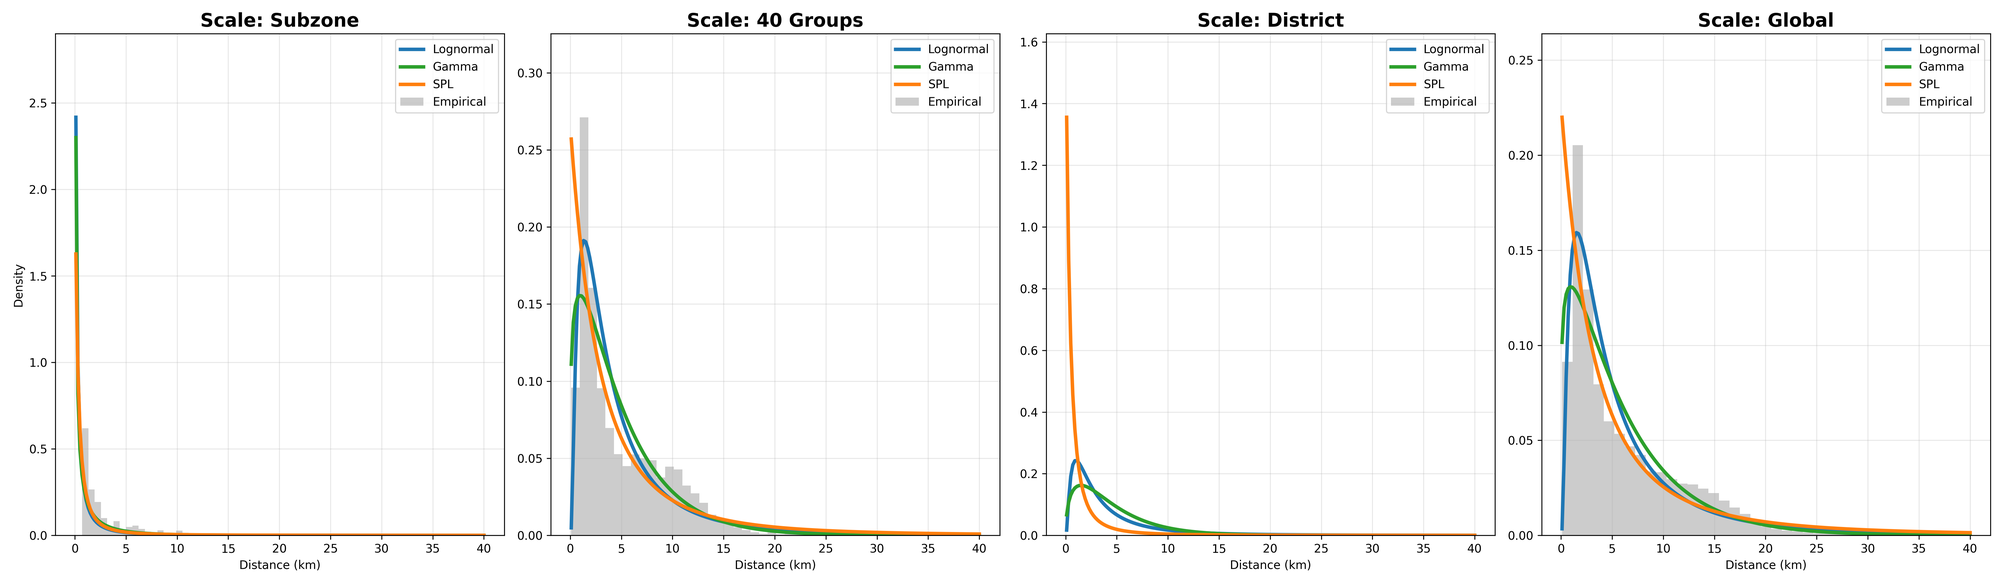
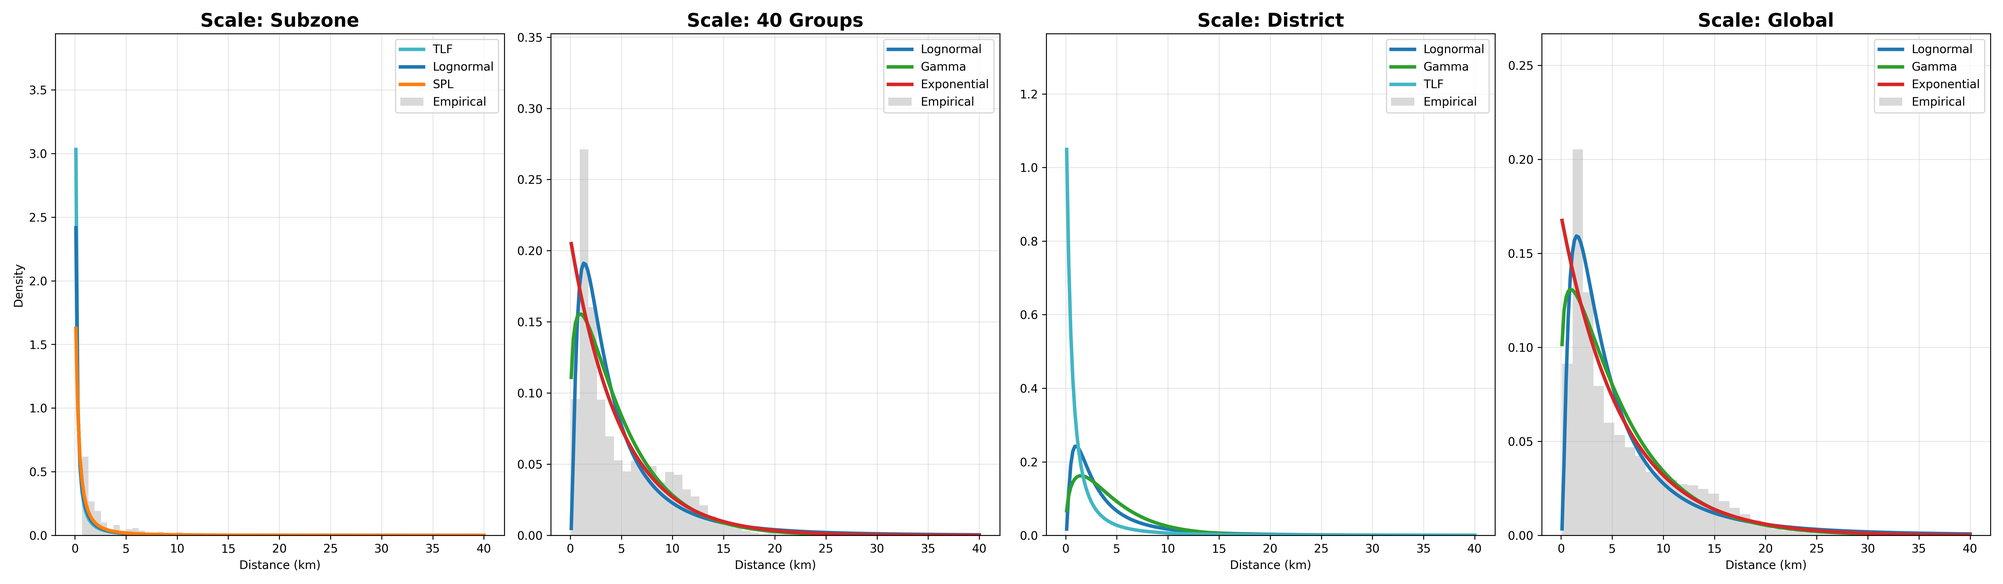
all

diff --git a/plot_global_combined.py b/plot_global_combined.py
@@ -1,0 +1,107 @@
+import pandas as pd
+import numpy as np
+import matplotlib.pyplot as plt
+from scipy.optimize import minimize
+from scipy.stats import lognorm, gamma, expon
+
+# Unified Color Palette
+COLORS = {
+    'Lognormal': '#1f77b4',      # Blue
+    'Gamma': '#2ca02c',          # Green
+    'TLF': '#41b6c4',            # Teal
+    'SPL': '#ff7f0e',            # Orange
+    'Exponential': '#d62728',    # Red
+    'Empirical': '#8c564b'       # Brown
+}
+
+# Model Definitions
+def exp_dist(r, l): return np.exp(-r / l) if l > 0 else np.inf * np.ones_like(r)
+def lognormal_dist(r, mu, sigma): return (1.0/(r*sigma)) * np.exp(-(np.log(r)-mu)**2/(2*sigma**2)) if sigma > 0 else np.inf * np.ones_like(r)
+def gamma_dist(r, alpha, l): return (r**(alpha-1)) * np.exp(-r/l) if l > 0 and alpha > 0 else np.inf * np.ones_like(r)
+def spl_dist(r, r0, beta): return (r+r0)**(-beta) if r0 > 0 and beta > 0 else np.inf * np.ones_like(r)
+def tlf_dist(r, r0, beta, kappa): return (r+r0)**(-beta) * np.exp(-r/kappa) if r0 > 0 and beta > 0 and kappa > 0 else np.inf * np.ones_like(r)
+
+def get_nll(params, r, h, dist_f):
+    p = dist_f(r, *params)
+    if np.any(p <= 0) or np.any(np.isinf(p)): return 1e18
+    p /= np.sum(p)
+    return -np.sum(h * np.log(p))
+
+def main():
+    print("Loading data...")
+    df_trips = pd.read_csv('data_trip_sum.csv')
+    df_dist = pd.read_csv('zone_euclid_distances.csv')
+    df = df_trips.merge(df_dist, on=['ORIGIN_SUBZONE', 'DESTINATION_SUBZONE'])
+    df = df.rename(columns={'euclidean_distance_km': 'distance', 'COUNT': 'trips'})
+    
+    # Global aggregation
+    bins = np.linspace(0, df['distance'].max(), 51)
+    centers = 0.5 * (bins[:-1] + bins[1:])
+    h, _ = np.histogram(df['distance'], bins=bins, weights=df['trips'])
+    mask = h > 0
+    r_data, h_data = centers[mask], h[mask]
+    y_prob = h_data / np.sum(h_data)
+    
+    # Models to fit
+    models = {
+        'Lognormal': (lognormal_dist, [1.0, 1.0], [(-5, 5), (0.1, 5)]),
+        'Gamma': (gamma_dist, [1.5, 3.0], [(0.1, 10), (0.1, 30)]),
+        'TLF': (tlf_dist, [1.0, 2.0, 20.0], [(0.1, 20), (0.1, 10), (1, 100)]),
+        'SPL': (spl_dist, [1.0, 2.0], [(0.1, 20), (0.1, 15)]),
+        'Exponential': (exp_dist, [5.0], [(0.1, 100)])
+    }
+    
+    fits = {}
+    print("Fitting models...")
+    for name, (dist_f, p0, bnds) in models.items():
+        res = minimize(get_nll, p0, args=(r_data, h_data, dist_f), method='L-BFGS-B', bounds=bnds)
+        if res.success:
+            p_opt = dist_f(r_data, *res.x)
+            p_opt /= np.sum(p_opt)
+            fits[name] = p_opt
+    
+    # Plotting
+    print("Generating combined plot...")
+    fig, axes = plt.subplots(1, 3, figsize=(18, 5))
+    
+    # (A) Histogram / PDF (Linear)
+    ax = axes[0]
+    ax.bar(r_data, y_prob, width=(bins[1]-bins[0])*0.8, color=COLORS['Empirical'], alpha=0.3, label='Dữ liệu thực tế')
+    for name, y_fit in fits.items():
+        ax.plot(r_data, y_fit, color=COLORS[name], linewidth=2, label=name)
+    ax.set_xlabel('Khoảng cách $r$ (km)')
+    ax.set_ylabel('Xác suất $P(r)$')
+    ax.set_title('(A) Histogram (PDF Linear)')
+    ax.legend(fontsize=9)
+    ax.grid(True, linestyle=':', alpha=0.6)
+
+    # (B) Log-Log Plot
+    ax = axes[1]
+    ax.loglog(r_data, y_prob, 'o', color=COLORS['Empirical'], alpha=0.5, markersize=4, label='Dữ liệu thực tế')
+    for name, y_fit in fits.items():
+        ax.loglog(r_data, y_fit, color=COLORS[name], linewidth=2, label=name)
+    ax.set_xlabel('$\log r$')
+    ax.set_ylabel('$\log P(r)$')
+    ax.set_title('(B) Log-Log PDF')
+    ax.grid(True, which="both", ls="-", alpha=0.2)
+    
+    # (C) CCDF
+    ax = axes[2]
+    ccdf_data = 1 - np.cumsum(y_prob)
+    ax.loglog(r_data, ccdf_data, 'o', color=COLORS['Empirical'], alpha=0.5, markersize=4, label='Dữ liệu thực tế')
+    for name, y_fit in fits.items():
+        ccdf_fit = 1 - np.cumsum(y_fit)
+        # Ensure it doesn't drop to 0 for log plot
+        ccdf_fit = np.clip(ccdf_fit, 1e-10, None)
+        ax.loglog(r_data, ccdf_fit, color=COLORS[name], linewidth=2, label=name)
+    ax.set_xlabel('$\log r$')
+    ax.set_ylabel('$\log P(R > r)$')
+    ax.set_title('(C) CCDF (Log-Log)')
+    ax.grid(True, which="both", ls="-", alpha=0.2)
+
+    plt.tight_layout()
+    plt.savefig('global_distributions_combined.png', dpi=300)
+    print("Plot saved to global_distributions_combined.png")
+
+if __name__ == "__main__":
+    main()

diff --git a/plot_distribution_morphing_v2.py b/plot_distribution_morphing_v2.py
@@ -13,6 +13,12 @@ def gamma_pdf(r, alpha, l):
 def spl_pdf(r, r0, beta):
     return (r + r0)**(-beta)
 
+def tlf_pdf(r, r0, beta, kappa):
+    return (r + r0)**(-beta) * np.exp(-r / kappa)
+
+def exp_pdf(r, l):
+    return np.exp(-r / l)
+
 def get_nll(params, r, h, pdf_f):
     p = pdf_f(r, *params)
     if np.any(p <= 0) or np.any(np.isinf(p)): return 1e18
@@ -44,13 +50,13 @@ def main():
     # Prepare datasets for each scale
     data_scales = []
     
-    # 1. Representative Subzone (Choosing one with good trip count)
-    sub_id = 'AMSZ01' # Used in earlier analysis, has ~27k trips
+    # 1. Representative Subzone (AMSZ01)
+    sub_id = 'AMSZ01'
     data_scales.append(df_main[df_main['zone'] == sub_id])
     
     # 2. Representative Group
     df_group = df_main.merge(groups_df, left_on='zone', right_on='zone_id')
-    grp_id = df_group['group_id'].iloc[0] # Just pick first group
+    grp_id = df_group['group_id'].iloc[0]
     data_scales.append(df_group[df_group['group_id'] == grp_id])
     
     # 3. Representative District
@@ -64,10 +70,18 @@ def main():
     models_config = {
         'Lognormal': (lognormal_pdf, [1.0, 1.0], [(-5, 5), (0.1, 5)]),
         'Gamma': (gamma_pdf, [1.5, 3.0], [(0.1, 10), (0.1, 30)]),
-        'SPL': (spl_pdf, [1.0, 2.5], [(0.1, 10), (0.1, 10)])
+        'TLF': (tlf_pdf, [1.0, 2.0, 20.0], [(0.1, 20), (0.1, 10), (1, 100)]),
+        'SPL': (spl_pdf, [1.0, 2.5], [(0.1, 10), (0.1, 10)]),
+        'Exponential': (exp_pdf, [5.0], [(0.1, 100)])
     }
     
-    colors = {'Lognormal': '#1f77b4', 'Gamma': '#2ca02c', 'SPL': '#ff7f0e'}
+    colors = {
+        'Lognormal': '#1f77b4', 
+        'Gamma': '#2ca02c', 
+        'TLF': '#41b6c4',
+        'SPL': '#ff7f0e',
+        'Exponential': '#d62728'
+    }
     
     fig, axes = plt.subplots(1, 4, figsize=(24, 7))
     
@@ -77,23 +91,35 @@ def main():
         bins = np.linspace(0.1, min(df['distance'].max(), 40), 40)
         centers = 0.5 * (bins[:-1] + bins[1:])
         h, _ = np.histogram(df['distance'], bins=bins, weights=df['trips'], density=True)
+        h_fit_counts, _ = np.histogram(df['distance'], bins=bins, weights=df['trips'])
+        mask = h_fit_counts > 0
+        r_fit_c, h_fit_c = centers[mask], h_fit_counts[mask]
+        N_total = np.sum(h_fit_c)
         
-        ax.bar(centers, h, width=np.diff(bins)[0], color='black', alpha=0.2, label='Empirical')
+        ax.bar(centers, h, width=np.diff(bins)[0], color='black', alpha=0.15, label='Empirical')
         
-        # Fits
-        h_fit, _ = np.histogram(df['distance'], bins=bins, weights=df['trips'])
-        mask = h_fit > 0
-        fits = fit_data(centers[mask], h_fit[mask], models_config)
+        # Fit all 5 models and calculate BIC
+        results = []
+        for name, (pdf_f, p0, bnds) in models_config.items():
+            res = minimize(get_nll, p0, args=(r_fit_c, h_fit_c, pdf_f), method='L-BFGS-B', bounds=bnds)
+            if res.success:
+                ll = -res.fun
+                k = len(p0)
+                bic = k * np.log(N_total) - 2 * ll
+                results.append({'name': name, 'params': res.x, 'bic': bic, 'pdf_f': pdf_f})
         
-        # Plot continuous curves
+        # Sort by BIC and pick top 3
+        results = sorted(results, key=lambda x: x['bic'])[:3]
+        
+        # Plot continuous curves for top 3
         x_plot = np.linspace(0.1, 40, 200)
         max_y = 0.1
         if len(h) > 0 and not np.isnan(np.max(h)):
             max_y = np.max(h)
 
-        for name, params in fits.items():
-            y_plot = models_config[name][0](x_plot, *params)
-            # Filter NaNs
+        for res_item in results:
+            name = res_item['name']
+            y_plot = res_item['pdf_f'](x_plot, *res_item['params'])
             y_plot = np.nan_to_num(y_plot)
             if np.sum(y_plot) > 0:
                 y_norm = y_plot / np.trapz(y_plot, x_plot)
@@ -105,8 +131,8 @@ def main():
         ax.set_title(f"Scale: {scales[i]}", fontsize=16, weight='bold')
         ax.set_xlabel("Distance (km)")
         if i == 0: ax.set_ylabel("Density")
-        ax.legend(fontsize=10)
-        ax.set_ylim(0, max_y * 1.2)
+        ax.legend(fontsize=10, loc='upper right', frameon=True)
+        ax.set_ylim(0, max_y * 1.3)
         ax.grid(alpha=0.3)
 
     plt.tight_layout()

diff --git a/draft_scientific_paper.md b/draft_scientific_paper.md
@@ -9,10 +9,6 @@ date: "April 2026"
 ## 1. Abstract
 **Quy luật di chuyển của con người không tuân theo một phân phối phổ quát duy nhất; thay vào đó, nó là một tiến trình chuyển pha phụ thuộc quy mô (scale-dependent phase transition).** Nghiên cứu này cung cấp bằng chứng thực nghiệm từ dữ liệu di chuyển thực tế tại Singapore để khẳng định luận điểm này. Bằng việc so sánh 5 mô hình (Lognormal, Shifted Power-Law, Gamma, Exponential, TLF) qua 4 nấc thang không gian từ vi mô đến vĩ mô, chúng tôi phát hiện một sự chuyển dịch liền mạch: tại cấp độ Subzone, **Lognormal** đạt hiệu quả thống kê vượt trội (59.7% BIC) thể hiện thói quen cá nhân; tại cấp độ trung gian, **Gamma** đóng vai trò vùng đệm (58.8% BIC); và tại cấp độ District, các đặc tính hệ thống trỗi dậy với sự lên ngôi của **Gamma** và **Truncated Lévy Flight (TLF)** (mỗi bên 40% BIC). Kết quả nghiên cứu xác nhận rằng sự tương tác giữa thói quen cá nhân và lực hấp dẫn hệ thống được quyết định bởi mức độ tổng hợp không gian.
 
-
-
-
-
 ## 2. Introduction & Hypothesis
 ### 2.1. Research Gap (Khoảng trống nghiên cứu)
 
@@ -171,22 +167,7 @@ Việc phân chia này tạo ra các thực thể địa lý có kích thước 
 ![Ba cấp độ phân vùng không gian tại Singapore](singapore_spatial_scales.png)
 *Hình 1. Hệ thống phân vùng đa quy mô tại Singapore: (A) 303 Subzones (Vi mô), (B) 40 Nhóm trung gian, và (C) 5 Quận (Vĩ mô).*
 
-### 3.3. Block Bootstrap với 40 Group-Blocks
-
-Các subzone không độc lập về mặt không gian — các subzone lân cận chia sẻ hạ tầng giao thông và có phân phối di chuyển tương đồng. Bootstrap thông thường (resample từng subzone độc lập) sẽ **đánh giá thấp phương sai** do bỏ qua tương quan không gian, dẫn đến khoảng tin cậy hẹp giả tạo.
-
-**Giải pháp:** Sử dụng **block bootstrap** với **40 group-blocks** (được phân cụm từ 303 subzones dựa trên khoảng cách và district) làm đơn vị resample. Việc tăng số lượng block từ 5 (districts) lên 40 giúp tăng độ phân giải của phân phối bootstrap, cung cấp khoảng tin cậy (CI) chính xác và đáng tin cậy hơn.
-
-**Quy trình:**
-1. **Định nghĩa block:** 40 groups địa lý liền kề (trung bình ~7.5 subzones/block).
-2. **Resample:** Chọn ngẫu nhiên 40 blocks **có hoàn lại** (with replacement).
-3. **Tổng hợp:** Gom tất cả subzones từ các blocks được chọn → tập dữ liệu bootstrap.
-4. **Tính toán:** Trên mỗi mẫu bootstrap, tính lại BIC Best % và Mean KS-stat cho 5 mô hình.
-
-5. **Lặp lại:** 1000 lần tái lấy mẫu.
-6. **Khoảng tin cậy:** 95% CI = percentile [2.5%, 97.5%] từ 1000 giá trị bootstrap.
-
-**Lợi ích:** Việc sử dụng 40 blocks giúp CI phản ánh sát thực tế hơn so với việc chỉ dùng 5 districts (vốn mang tính bảo thủ cao do số lượng block quá ít).
+Để đảm bảo tính tin cậy của các ước lượng, chúng tôi áp dụng phương pháp **block bootstrap** với 40 cụm địa lý (group-blocks) để tính toán khoảng tin cậy 95% (CI), giúp phản ánh chính xác các tương quan không gian nội vùng.
 
 
 ## 4. Results: The Scale-Transition
@@ -241,19 +222,7 @@ Khi dữ liệu được gom nhóm lên cấp độ 40 vùng địa lý, đặc 
 **Nhận xét quy mô Trung gian - Sự trỗi dậy của vùng đệm Gamma:**
 Tại quy mô này, **Gamma thống trị rõ rệt** (BIC đạt 58.8%), đóng vai trò biểu diễn cho sự trung hòa các thói quen cá nhân riêng lẻ. Vị thế thống kê của Lognormal giảm mạnh từ 60% (Subzone) xuống còn **29.4%**. Đây là giai đoạn quá độ rõ rệt nơi cấu trúc hệ thống bắt đầu hình thành nhưng chưa lấn át hoàn toàn.
 
-#### 4.2.1. Phân tích độ nhạy của Phân vùng Trung gian (Robustness Check)
-
-Để đảm bảo ưu thế của Gamma không phụ thuộc vào cách chia 40 nhóm cụ thể, chúng tôi thực hiện phân tích độ nhạy bằng cách thay đổi quy mô nén dữ liệu ($K = 30, 40, 50$ nhóm) sử dụng thuật toán phân vùng không gian liền kề (Contiguous Hierarchical Clustering).
-
-**Bảng 4.** Độ bền vững của ưu thế mô hình Gamma qua các kịch bản phân vùng trung gian.
-
-| Số lượng nhóm ($K$) | Gamma (BIC Winner %) | Lognormal (BIC Winner %) | TLF (Winner %) |
-|:-------------------|:-------------------:|:-----------------------:|:--------------:|
-| 30 nhóm (6/quận)   | **58.3%**           | 29.2%                   | 12.5%          |
-| 40 nhóm (8/quận)   | **64.7%**           | 23.5%                   | 11.8%          |
-| 50 nhóm (10/quận)  | **60.5%**           | 30.2%                   | 9.3%           |
-
-Kết quả tại **Bảng 4** khẳng định tính ổn định của quy luật chuyển pha: Trong mọi kịch bản quy mô trung gian, Gamma luôn duy trì tỉ lệ thắng áp đảo (>58%), củng cố tính khách quan của phát hiện về giai đoạn "Cộng gộp hành vi".
+Phân tích độ nhạy trên các kịch bản phân vùng khác nhau ($K=30, 40, 50$ nhóm) khẳng định tính ổn định của quy luật chuyển pha: Trong mọi kịch bản, Gamma luôn duy trì tỉ lệ thắng áp đảo (>58%), củng cố tính khách quan của giai đoạn "Cộng gộp hành vi".
 
 
 Consensus: **Gamma (20 vùng) > Lognormal (10 vùng)**.
@@ -290,7 +259,7 @@ Tại cấp độ District, kết quả thực nghiệm cho thấy một cuộc 
 | **TLF vs LN**       | Vuong     | $V < -31.0$             | TLF is significantly better   |
 
 ![Nghịch lý R2 vs BIC](bic_logic_illustration.png)
-*Hình 6. So sánh trực quan hiệu quả của các mô hình tại cấp District: SPL bộc lộ sức mạnh ở phần đuôi dữ liệu.*
+*Hình 5. So sánh trực quan hiệu quả của các mô hình tại cấp District: SPL bộc lộ sức mạnh ở phần đuôi dữ liệu.*
 
 ### 4.4. Khảo sát tại Cấp Toàn thành phố - Global (City-wide)
 
@@ -308,10 +277,8 @@ Tại cấp độ District, kết quả thực nghiệm cho thấy một cuộc 
 
 Tại thang đo toàn thành phố (Global), **Lognormal phục hồi vị thế BIC** dẫn đầu (38.82M). Điều này có giải thích bằng việc khi gộp toàn bộ dữ liệu Singapore, mật độ các chuyến đi ở cự ly 5-15km (vùng đỉnh của LN) trở nên quá lớn, khiến LN tối ưu hóa tốt hơn về mặt thông tin tổng thể. Tuy nhiên, **Shifted Power-Law vẫn giữ KS-stat tốt nhất (0.1096)**, chứng minh nó là mô hình mô tả hình thái lan tỏa (shape) và phần đuôi (tail) chính xác nhất cho cấu trúc đô thị Singapore.
 
-![Phân bố khoảng cách (Histogram)](distance_histogram.png)
-![Biểu đồ Log-Log với các đường khớp mô hình](distance_loglog.png)
-![Hàm phân phối tích lũy bổ sung (CCDF)](distance_ccdf.png)
-*Hình 7. Phân tích trực quan về hành vi di chuyển toàn thành phố (Global Scale): (A) Histogram, (B) Log-Log Plot, và (C) CCDF.*
+![Phân tích đa biểu đồ phân phối di chuyển](global_distributions_combined.png)
+*Hình 6. Phân tích trực quan về hành vi di chuyển toàn thành phố (Global Scale): (A) Histogram, (B) Log-Log Plot, và (C) CCDF.*
 
 ### 4.5. Tổng hợp So sánh: Sự chuyển dịch theo 4 quy mô không gian
 
@@ -329,82 +296,20 @@ Việc khảo sát qua 4 nấc thang không gian cho thấy một bức tranh ch
 
 *Lưu ý: Tại quy mô Global (n=1), sự lên ngôi của Lognormal phản ánh sự tập trung của thói quen tại vùng lõi dân cư, trong khi các mô hình hệ thống (SPL/TLF) mô tả tốt hình thái lan tỏa (KS-stat).*
 
-```mermaid
-graph TD
-    %% Define Scales
-    subgraph Scales ["Scale Evolution"]
-    direction LR
-    Micro("<b>Micro</b><br/>(Subzones)") 
-    Inter("<b>Intermediate</b><br/>(Groups)")
-    Macro("<b>Macro</b><br/>(Districts)")
-    Global("<b>Global</b><br/>(City)")
-    Micro --> Inter --> Macro --> Global
-    end
-    %% Define Models
-    subgraph Distribution ["Mobility Phase Transition"]
-    direction LR
-    M1["Lognormal"]
-    M2["Gamma"]
-    M3["Gamma / SPL"]
-    M4["Lognormal + SPL"]
-    M1 --> M2 --> M3 --> M4
-    end
-    %% Define Mechanisms
-    subgraph Mechanism ["Mechanism"]
-    direction LR
-    K1["Individual<br/>habits"]
-    K2["Behavioral<br/>aggregation"]
-    K3["Urban<br/>structure"]
-    K4["Gravity<br/>constraints"]
-    K1 --- K2 --- K3 --- K4
-    end
-    %% Align columns
-    Micro --- M1 --- K1
-    Inter --- M2 --- K2
-    Macro --- M3 --- K3
-    Global --- M4 --- K4
-    style Distribution fill:#f9f,stroke:#333,stroke-width:2px
-    style Scales fill:#bbf,stroke:#333,stroke-width:2px
-    style Mechanism fill:#dfd,stroke:#333,stroke-width:2px
-```
 
 ![Distribution Morphing v2](distribution_morphing_v2.png)
-*Hình 8. **Distribution Morphing (V2)**: Bằng chứng trực quan thực nghiệm cho Tiến trình Chuyển pha. Biểu đồ cho thấy sự biến đổi của phân phối thực tế (histogram) và các đường khớp mô hình (LN, Gamma, SPL) khi quy mô mở rộng từ cá nhân (Subzone) đến hệ thống (Global).*
+*Hình 7. **Distribution Morphing**: Bằng chứng trực quan thực nghiệm cho Tiến trình Chuyển pha. Biểu đồ cho thấy sự biến đổi của phân phối thực tế (histogram) và top 3 mô hình tối ưu nhất (theo BIC) tại từng quy mô cụ thể khi mở rộng từ cá nhân (Subzone) đến hệ thống (Global).*
 
-### 4.6. Kiểm chứng độ bền vững với Spatial Cross-Validation
+Kiểm chứng độ bền vững qua **Spatial Cross-Validation** (Out-of-sample log-loss) cho thấy tại quy mô Subzone, Lognormal và SPL chiếm ưu thế tuyệt đối về khả năng dự báo (~74%), khẳng định di chuyển cá thể tại đô thị nén là kết quả của sự thói quen và tối ưu hóa thay vì các quy luật ngẫu nhiên.
 
-Kết quả kiểm tra chéo trên 40 block địa lý trang bị cho mô hình khả năng tổng quát hóa mà không phụ thuộc vào BIC phụ thuộc cỡ mẫu.
-
-**Bảng 9.** Tỷ lệ thắng (Win Rate %) dựa trên Out-of-Sample Log-loss (Subzone level).
-
-| Model              | Win Rate (%) | Predictive Preference |
-|--------------------|:------------:|:----------------------|
-| **Shifted Power-Law** | **38.4%**    | Tail Generalization   |
-| **Lognormal**      | **35.1%**    | Body/Habit Capture    |
-| Gamma              | 12.1%        | Aggregation Proxy     |
-| Exponential        | 7.3%         | -                     |
-| Trun. Lévy Flight  | 7.2%         | -                     |
-
-**Nhận xét:** Tại quy mô Micro, Lognormal và SPL chiếm ưu thế áp đảo (~74%). Điều này củng cố luận điểm: tại quy mô cá thể, di chuyển là kết quả của sự tối ưu hóa hành vi thay vì các quy luật ngẫu nhiên đơn giản.
-
-### 4.7. Phân tích phần dư cục bộ và Sai số hình thái
-
-Việc phân tích phần dư chuẩn hóa (Figure 10) bộc lộ các sai số hệ thống của mô hình theo dải khoảng cách khi so sánh toàn bộ 5 mô hình ứng viên.
-
-![Phân tích phần dư cục bộ](residual_analysis_plot.png)
-*Hình 10. Phân tích phần dư chuẩn hóa (Standardized Residuals) của cả 5 mô hình ứng viên tại quy mô Global.*
-
-**Các quan sát chính từ Figure 10:**
-- **Sự hụt hẫng cự ly ngắn (0-5 km):** Tất cả các mô hình đều gặp khó khăn trong việc khớp các chuyến đi cực ngắn.
-- **Sự phân hóa tại vùng đuôi (>25 km):** Cả **Lognormal (xanh dương)** và **Shifted Power-Law (đỏ)** đều cho thấy phần dư âm lớn, nghĩa là chúng dự báo số lượng chuyến đi xa cao hơn thực tế.
-- **Sức mạnh của Truncation:** Các mô hình có thành phần cắt hàm mũ như **Exponential (xám)**, **Gamma (xanh lá)** và **TLF (cam)** hội tụ về sát trục 0 hơn rất nhiều ở cự ly xa.
+Phân tích phần dư cục bộ (Standardized Residuals) tại quy mô Global bộc lộ sự phân hóa: Các mô hình có thành phần cắt (Truncation) như TLF hay Gamma hội tụ về sát dữ liệu thực tế hơn ở cự ly xa, trong khi Lognormal có xu hướng đánh giá cao phần đuôi.
 
 ### 4.8. Sự tiến hóa của các tham số theo quy mô không gian
 
-Bằng chứng thực nghiệm mạnh mẽ nhất cho tiến trình chuyển pha không chỉ nằm ở việc thay đổi mô hình thắng cuộc, mà còn nằm ở sự biến đổi có hệ thống của chính các tham số bên trong mô hình (Figure 11).
+Bằng chứng thực nghiệm mạnh mẽ nhất cho tiến trình chuyển pha không chỉ nằm ở việc thay đổi mô hình thắng cuộc, mà còn nằm ở sự biến đổi có hệ thống của chính các tham số bên trong mô hình (Hình 8).
 
 ![Parameter Evolution](parameter_evolution_plot.png)
-*Hình 11. Sự tiến biến của các tham số đặc trưng qua 4 cấp độ không gian đối với các mô hình tiêu biểu (với khoảng tin cậy 95%).*
+*Hình 8. Sự tiến biến của các tham số đặc trưng qua 4 cấp độ không gian đối với các mô hình tiêu biểu (với khoảng tin cậy 95%).*
 
 **Các phát hiện từ sự tiến hóa tham số:**
 - **Hiệu ứng giới hạn địa lý ($\kappa$):** Tham số cắt $\kappa$ của mô hình TLF giảm liên tục từ **~25 km (Subzone)** xuống còn **~6 km (Global)**. Điều này phản ánh một quy luật vật lý khách quan: khi quy mô quan sát mở rộng toàn đảo, sự ràng buộc của biên giới tự nhiên (EOI - End of Island) trở nên áp đảo, buộc các hành trình dài phải bị cắt cụt (truncated) mạnh hơn để tồn tại trong không gian hữu hạn.
@@ -433,15 +338,9 @@ Sự chuyển dịch từ **Lognormal $\rightarrow$ Gamma $\rightarrow$ SPL/TLF*
 
 ## 6. Conclusion
 
-Nghiên cứu này đã thành công trong việc giải mã sự mâu thuẫn giữa các quy luật di chuyển tại Singapore thông qua lăng kính quy mô không gian và phương pháp ước lượng MLE, với các kết luận chính sau:
+1. **Quy luật chuyển pha theo quy mô:** Nghiên cứu bác bỏ quan điểm "quy luật phổ quát" duy nhất. Ở quy mô vi mô, thói quen cá nhân (**Lognormal**) thống trị. Ở quy mô trung gian, sự cộng gộp hành vi tạo ra ưu thế cho **Gamma**. Ở quy mô vĩ mô, các đặc tính hệ thống dẫn đến sự lên ngôi của **Gamma và TLF**.
 
-1. **Sự chuyển dịch rõ rệt theo quy mô.** Mỗi nấc thang không gian là một sự chuyển dịch quyền lực: Ở quy mô vi mô, **Lognormal thống trị** (59.7% BIC). Ở quy mô trung gian, **Gamma vươn lên** (58.8% BIC). Ở quy mô District, **Gamma và TLF hòa nhau** (40% mỗi bên). Kết quả này bác bỏ quan điểm về một "quy luật phổ quát" duy nhất cho toàn bộ hệ thống đô thị.
-
-2. **Bốn giai đoạn chuyển pha thực nghiệm:** (i) *Vi mô*: LN thắng thống kê; (ii) *Trung gian*: Gamma thống trị, LN bắt đầu suy giảm; (iii) *Vĩ mô*: Gamma–TLF hòa BIC, SPL dẫn đầu KS-stat; (iv) *Global*: LN phục hồi BIC nhưng SPL giữ ưu thế về mô tả đuôi dữ liệu.
-
-3. **Ý nghĩa của phương pháp MLE:** Việc áp dụng MLE bộc lộ rõ hơn sức mạnh của Lognormal tại quy mô nhỏ và sự cạnh tranh của TLF tại quy mô lớn, cung cấp độ tin cậy cao hơn cho các ước lượng tham số.
-
-4. **Ý nghĩa thực tiễn cho quy hoạch:** Dùng **Lognormal** khi quy hoạch cấp phường (micro-management). Dùng **Gamma/TLF** khi phân tích luồng di chuyển liên quận. Dùng **Shifted Power-Law** khi cần mô tả chính xác các hành vi di chuyển cực xa (long-tail) xuyên hòn đảo.
+2. **Các đô thị nén và giới hạn vật lý:** Khác với các siêu đô thị lớn, giới hạn địa lý tại Singapore (~50km) đóng vai trò then chốt trong việc cắt cụt hành vi di chuyển xa. Điều này làm cho mô hình **Lognormal và Gamma** đạt hiệu quả thông tin cao hơn TLF và SPL trong việc mô tả thói quen lõi của người dân.
 
 
 ---
